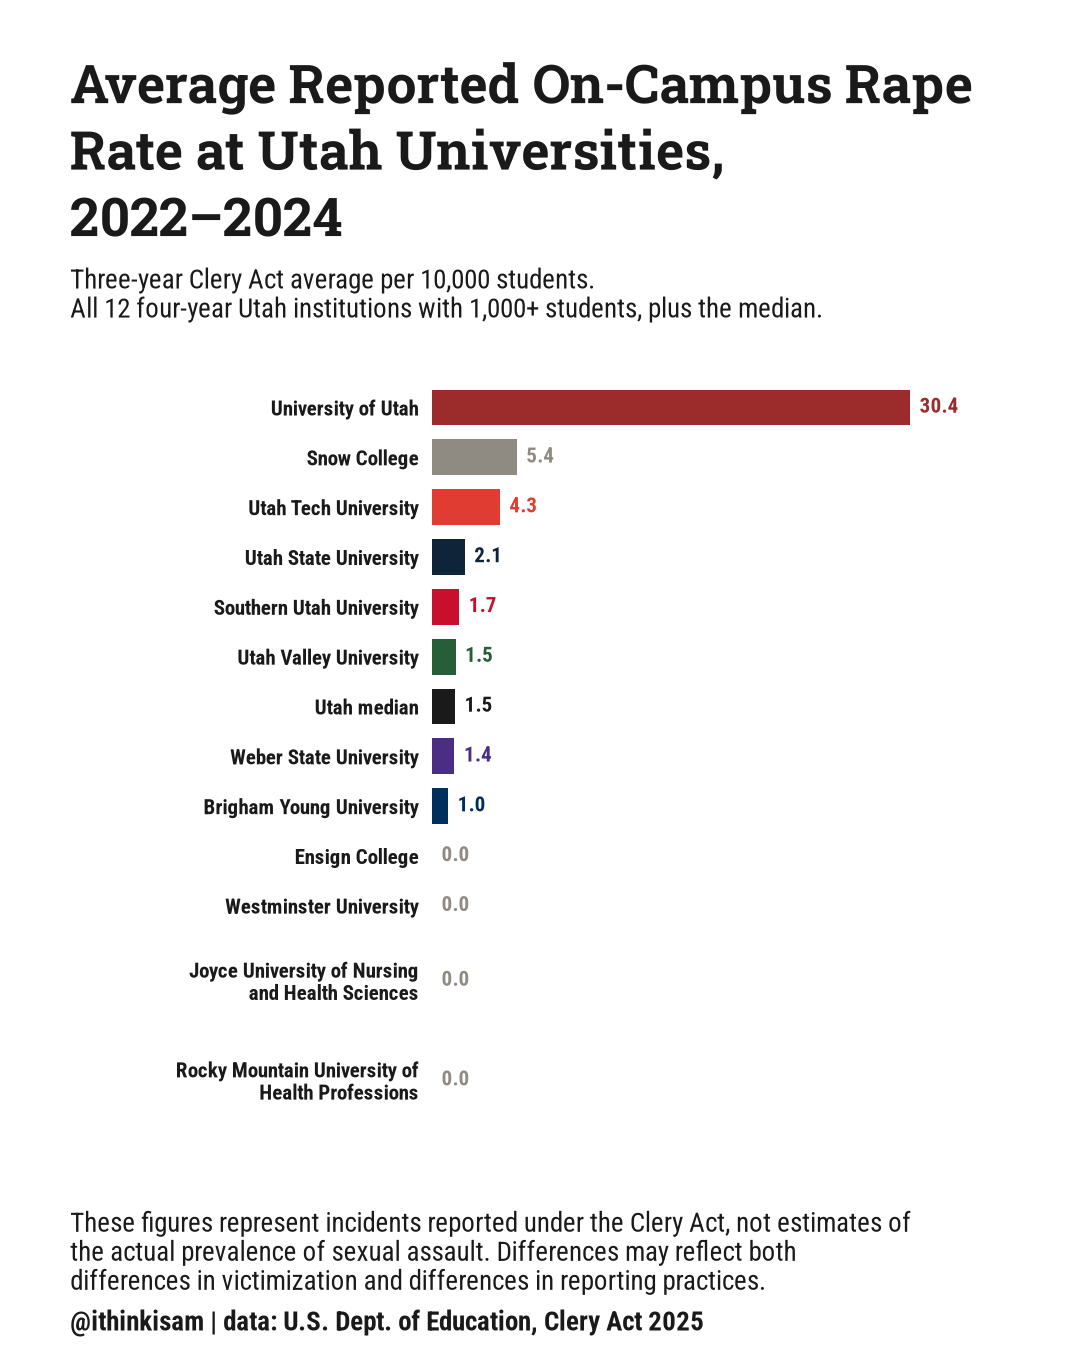
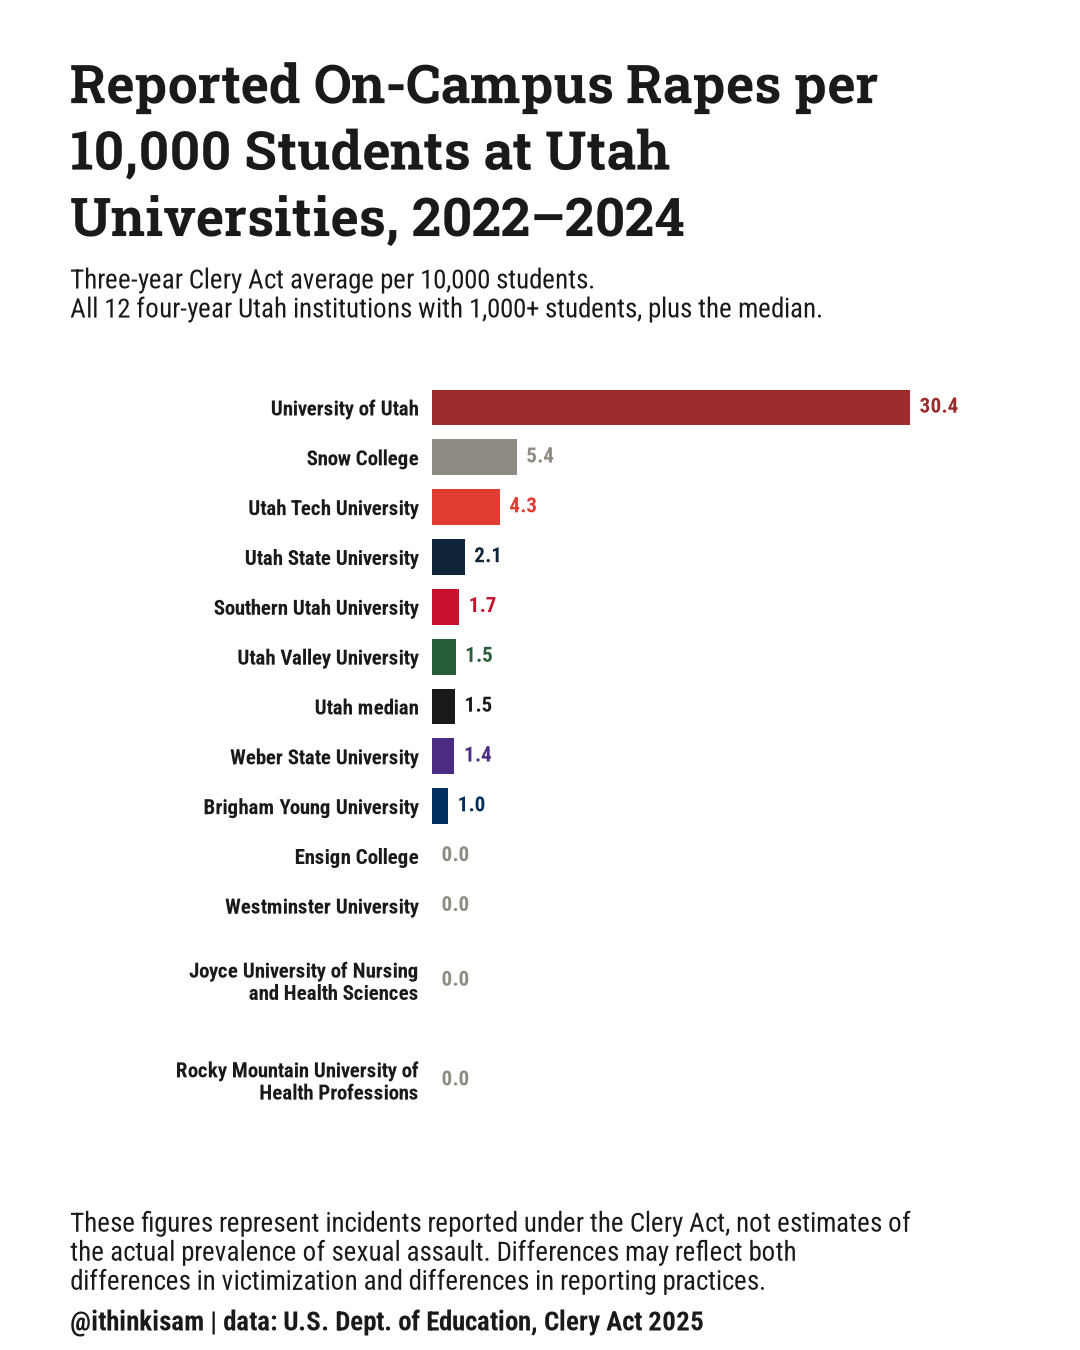
Retitle Utah 2022-24 per-10k graphic (#47)

Changed region(s): [[0.0611, 0.0311, 0.9167, 0.1867]]

diff --git a/src/lib/data-explorer.ts b/src/lib/data-explorer.ts
@@ -2448,7 +2448,7 @@ function cleryUtahGraphics(): Graphic[] {
       `Horizontal bar chart of 2024 reports per 10,000 students at ${u.n} Utah institutions. The Utah median is ${u.median_rate_2024.toFixed(1)}. BYU, highlighted, is at ${u.byu.rate_2024.toFixed(1)}, ranking ${u.byu.rank_rate} of ${u.n}.`,
     ),
     mk(
-      "Utah: average reported on-campus rape rate, 2022-2024",
+      "Utah: reported on-campus rapes per 10,000 students, 2022-24",
       "Three-year average per 10,000 students at Utah's four-year institutions with 1,000+ students, with the Utah median.",
       "utah-reported-rapes-per-10k-3yr-average-2022-24.png",
       `Horizontal bar chart of the 2022-2024 average reported rate at ${u.n_3yr} Utah institutions. The Utah median is ${u.median_rate_3yr.toFixed(1)}. BYU, highlighted, is at ${u.byu.rate_3yr.toFixed(1)}, ranking ${u.byu.rank_3yr} of ${u.n_3yr}.`,

diff --git a/scripts/clery-campus-safety-2025/render.py b/scripts/clery-campus-safety-2025/render.py
@@ -616,7 +616,7 @@ def main():
     b3 = next(r for r in u3["rows"] if r["unitid"] == BYU_ID)
     bar_chart(rows=u3["rows"], byu=b3, value_key="rate3", rank_key="rank3", decimals=1,
               extra_rows=[("Utah median", u3["median_rate_3yr"], INK)],
-              title="Average Reported On-Campus Rape Rate at Utah Universities, 2022–2024",
+              title="Reported On-Campus Rapes per 10,000 Students at Utah Universities, 2022–2024",
               subtitle=f"Three-year Clery Act average per 10,000 students.\n{sub_ut}, plus the median.",
               out=args.out_dir / "utah-reported-rapes-per-10k-3yr-average-2022-24.png", fonts=fonts, color_map=SCHOOL_COLORS)
     utah_scatter(args.out_dir / "utah-campus-size-vs-reported-rapes-2024.png", fonts)
